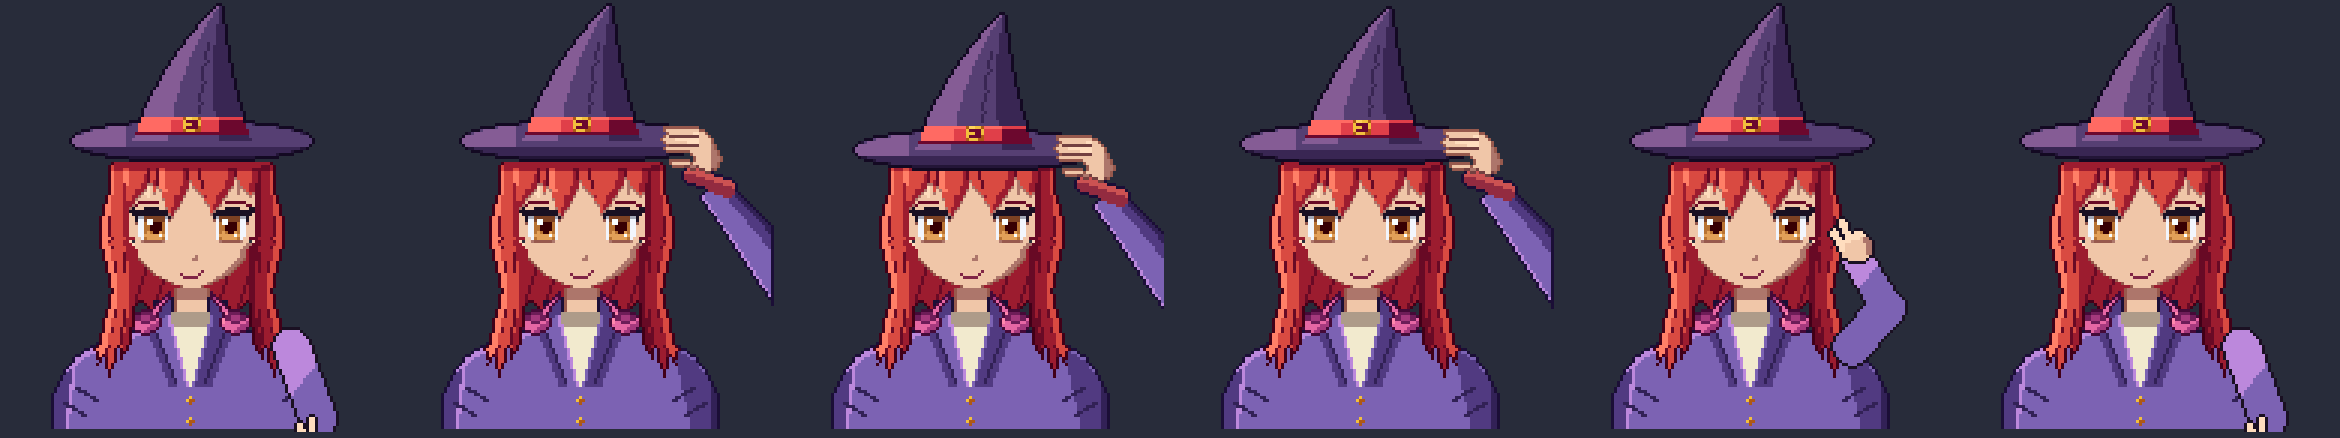
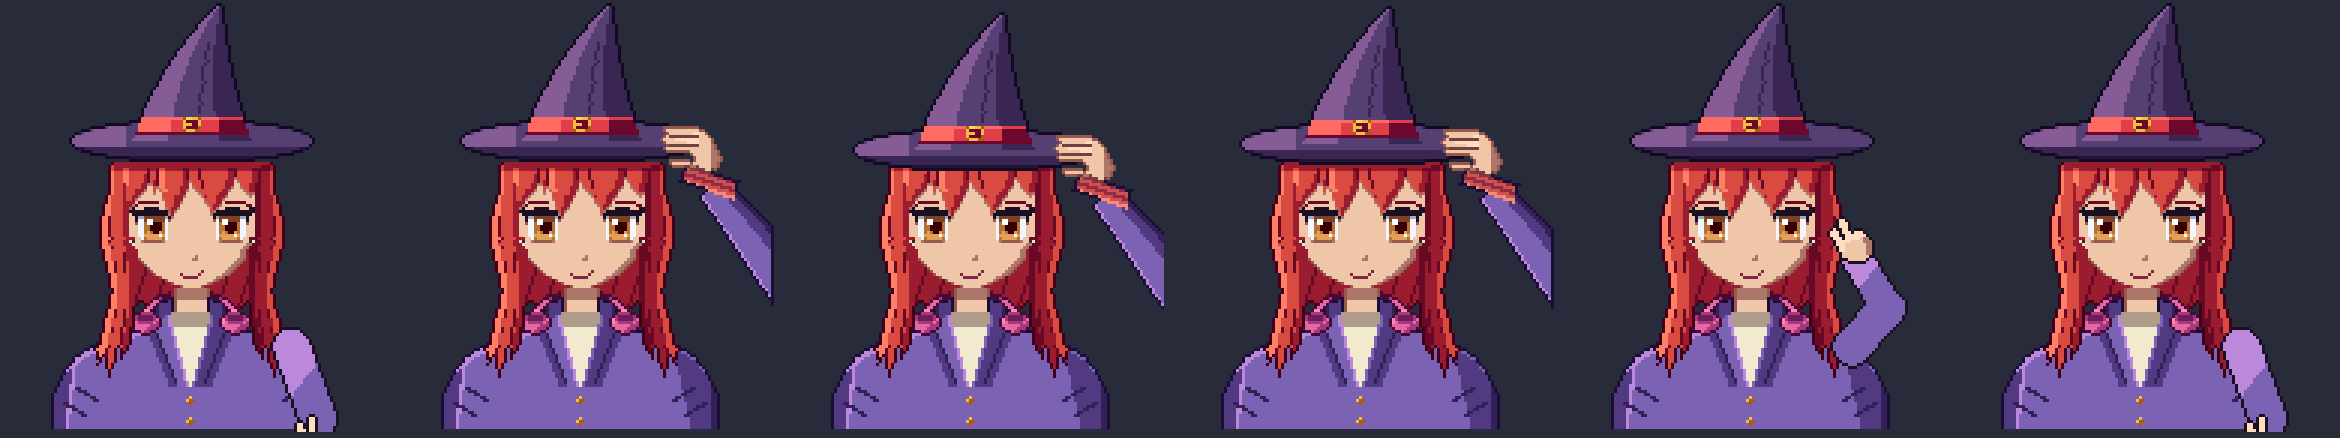
Portrait (art builder 1): art2's round-4 notes: the neck headphones' band and cushions, the hat-tip cuff's fold
- the headphones resting round her neck: the band's arc showing either side of her neck as it goes round the back, the cups'
  cushions dark (they read as pink bows before)
- the hat-tip cuff: a lit top edge (j: the trim's light tone, sprite.ts's last free letter), a fold line along it, its underside
  shaded (it was a flat block)

Claude-Session: https://claude.ai/code/session_01FVGKHvaavDn5xGsWtRTBaz

diff --git a/src/ui/portrait/sprite.ts b/src/ui/portrait/sprite.ts
@@ -10,7 +10,7 @@ export interface Sprite { w: number; h: number; px: Uint8Array }
 /** A part placed: its sprite and where its top-left goes (whole pixels, in the frame it's placed in). */
 export interface Placed { sprite: Sprite; x: number; y: number }
 
-/** The letters (docs/PORTRAIT-STYLE.md; art direction round 1's target maps). Free for new parts: j; add a letter here, never reuse one. */
+/** The letters (docs/PORTRAIT-STYLE.md; art direction round 1's target maps). Every letter is taken; a new one needs a symbol (or a free digit-like character) added here, never reused. */
 export const LEGEND: Record<string, number> = {
   // hair: base, light, glint, shade, deep, outline; brows in its deep tone
   H: col(MAT.HAIR, BASE), h: col(MAT.HAIR, LIGHT), g: col(MAT.HAIR, HIGH), d: col(MAT.HAIR, SHADE), D: col(MAT.HAIR, DEEP), o: col(MAT.HAIR, OUTLINE), B: col(MAT.HAIR, DEEP),
@@ -31,7 +31,7 @@ export const LEGEND: Record<string, number> = {
   C: col(MAT.JACKET, BASE), Z: col(MAT.JACKET, LIGHT), z: col(MAT.JACKET, SHADE), X: col(MAT.JACKET, DEEP), x: col(MAT.JACKET, OUTLINE),
   // (art builder 1) the top in the jacket's V; the blossoms on the flowers hat; the hat-tip hand's cuff (the trim)
   A: col(MAT.TOP, BASE), E: col(MAT.TOP, SHADE), U: col(MAT.FLOWER, BASE), u: col(MAT.FLOWER, SHADE), V: col(MAT.FLOWER2, BASE), N: col(MAT.FLOWER2, SHADE),
-  m: col(MAT.TRIM, BASE), c: col(MAT.TRIM, SHADE),
+  m: col(MAT.TRIM, BASE), c: col(MAT.TRIM, SHADE), j: col(MAT.TRIM, LIGHT),
   // (art builder 1) headphones resting round her neck, and the scarf
   "1": col(MAT.PHONES, LIGHT), "2": col(MAT.PHONES, BASE), "3": col(MAT.PHONES, SHADE), "4": col(MAT.PHONES, DEEP), "5": col(MAT.PHONES, OUTLINE),
   "6": col(MAT.SCARF, LIGHT), "7": col(MAT.SCARF, BASE), "8": col(MAT.SCARF, SHADE), "9": col(MAT.SCARF, DEEP), "0": col(MAT.SCARF, OUTLINE),

diff --git a/src/ui/portrait/maps/body.ts b/src/ui/portrait/maps/body.ts
@@ -73,17 +73,17 @@ KSSSSssssssssSSSSK....................
 ...KKKKKKK.KSSSSSkkkK.................
 ...KSSSSSSKSSSSSSkkK..................
 ....KKKKnnkknSSSSkkK..................
-........xmnnmnnSSnK...................
-.......xmmmmmmmnnx....................
-.......xccccmmmmmmxxx.................
-.......xcccccccmmmmmmxxx..............
-........xcccccccccmmmmmmx.............
-.........xxxcccccccccmmmmx............
-............xxxcccccccccmx............
-...............xcccccccccx............
-..............xCCCcccccccXx...........
-.............xZCCCCCCccczXXx..........
-.............xZCCCCCCCCzzzXXx.........
+........xmnncnnSSnK...................
+.......xcmmmmccnnx....................
+.......xccccmmmmccxxx.................
+.......xmmmccccmmmmccxxx..............
+......xxxjmmmmccccmmmmccxxx...........
+.........xxxjmmmmccccmmmmx............
+............xxxjmmmmccccmx............
+...............xjjjmmmmccx............
+..............xCCCjjjjmmmXx...........
+.............xZCCCCCCjjjjXXx..........
+.............xZCCCCCCCCzjzXXx.........
 ..............xZCCCCCCCzzzzXXx........
 ...............xZCCCCCCCzzzzXXx.......
 ...............xZCCCCCCCCzzzzXXx......

diff --git a/src/ui/portrait/maps/neckwear.ts b/src/ui/portrait/maps/neckwear.ts
@@ -9,16 +9,16 @@ export const NECK_PHONES: PixMap = {
   anchor: [21, 0],
   rows: rows(String.raw`
 .............5.............5.............
-............55.............55............
-...........535.............535...........
-..........525...............525..........
-.........525.................525.........
-........525...................525........
-....5555225...................5225555....
-..55444425.....................51444455..
-.544333445.....................544333445.
-51443334425...................51443334425
-51224442235...................51224442235
+..........5555.............5555..........
+........553555.............555355........
+.......5225...................5225.......
+......5225.....................5225......
+.....5225.......................5225.....
+....5115.........................5115....
+..5533335.......................5333355..
+.534444435.....................534444435.
+51344444325...................51344444325
+51233333235...................51233333235
 52222223335...................52222223335
 .522223335.....................522223335.
 ..5523355.......................5523355..
